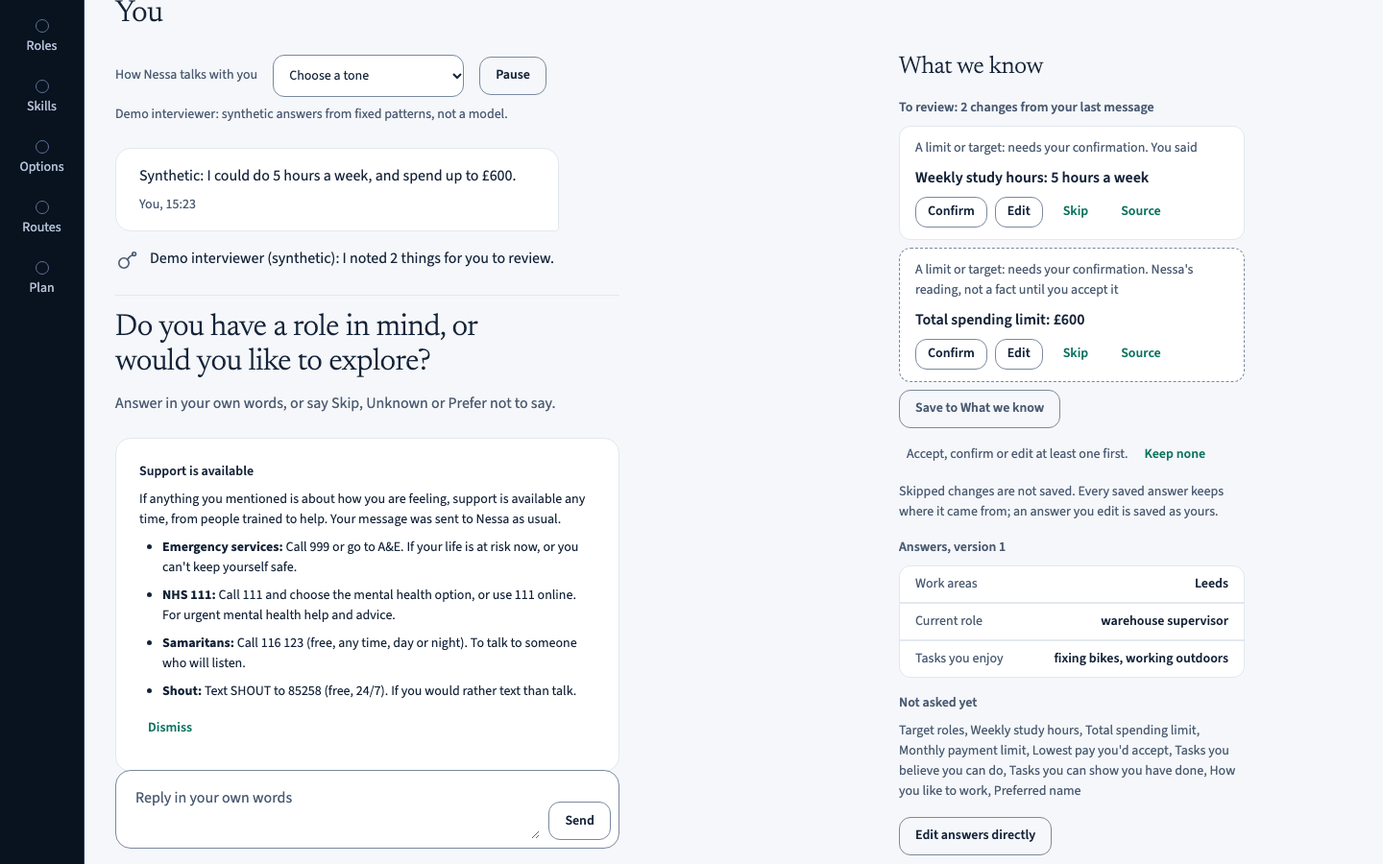
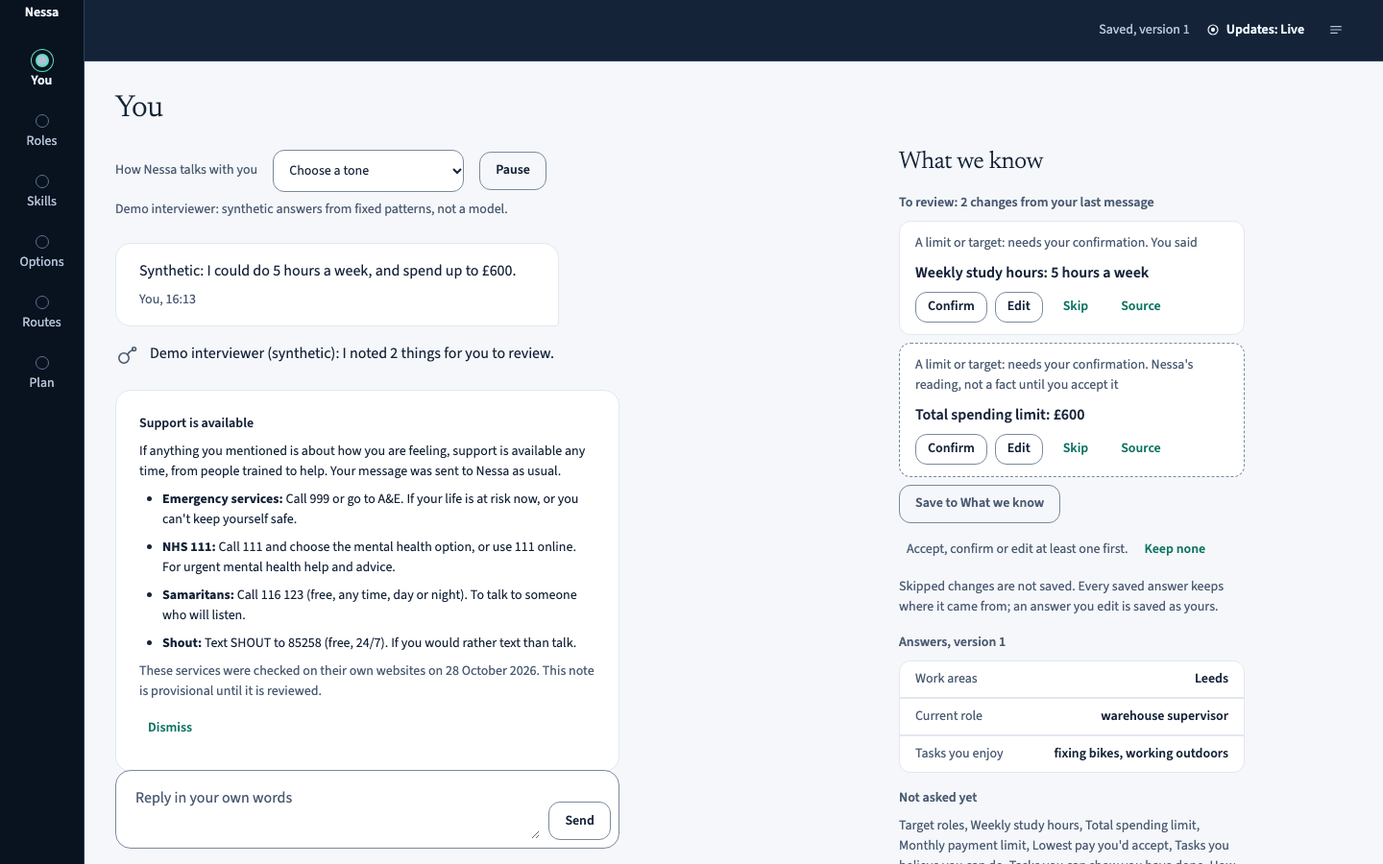
Record the one-screen support policy: ADR 0007, register, runbook, review
ADR 0007 decision 7 now records why the intent classifier was removed
(three rounds traded false positives for false negatives), the exact stem
list, the support flow, that neither the panel nor the instruction is
stored, how an old receipt is refused, and the H-12 known limits: a finite
English stem list, false positives that show the panel, no intent
judgement. The register (PROF-09, PROF-08, UI-06, H-12), the runbook and
the Sprint 2 review follow it. The support captures are retaken; the
blocking-response captures are removed with the response.

diff --git a/docs/requirements-register.md b/docs/requirements-register.md
@@ -421,8 +421,8 @@ Generated properties (plan section 8):
 | PROF-05 | Versioned patches with optimistic concurrency cite supporting message IDs; bounded repair ends in a visible validation failure with the old profile intact | D, P | T5 | verified (Task 5 final candidate ef25e31): proposals cite the person's message IDs; a turn pins the profile version and a decision needs it to be current (`STALE_INPUT_VERSION` otherwise); one repair request, then `invalid_model_output` with nothing to apply and the profile unchanged, `tests/integration/test_interview_turns.py` (durable, real worker), `tests/domain/test_interview_agent.py` |
 | PROF-06 | Secret fields and plan commitments are never patchable by model output; only allowlisted fields apply | D | T5 | verified (Task 5 final candidate ef25e31): the output schema can name only the profile's ten fields (keys and commitments are separate records), anything else fails validation, and the decision applies only proposals of its turn, `tests/domain/test_interview_contract.py::test_only_profile_fields_can_be_named_so_keys_and_commitments_are_unreachable`, `tests/domain/test_profile_document.py::test_an_update_naming_something_that_is_not_a_profile_field_is_refused` |
 | PROF-07 | Direct edits and chat proposals use the same application commands | D, API | T5, T6 | planned (T5 part verified, Task 5 final candidate ef25e31: `commit_profile_version` is the only write path; `PUT /profile` and a turn decision both go through it, `tests/domain/test_profile_document.py::test_a_partial_update_changes_only_its_fields_and_cites_only_its_source`, `tests/integration/test_interview_turns.py`, `test_live_smoke_ledger.py::test_the_interview_smoke_confirms_its_proposals_and_ledgers_the_attempt`. T6 part verified: the review tray's decision, its edits and undo, and choosing a target all go through `commit_profile_version` (`YouChapter.test.tsx`, `test_discovery.py`, `e2e/conversation.spec.ts`)) |
-| PROF-08 | One useful question at a time; supplied information is never asked again; a sure user confirms title and seniority and skips personality | M, UI | T6 | planned (UI, prompt and contract done; live passed once per case) | T6: the chapter shows only the latest question; the entry and the profile reach the model (`interview-turn-3`; `test_interview_choices.py::test_the_entry_mode_and_pause_are_saved_with_versions_and_reach_the_interviewer`); the fixture follows the entry. Fix round 1: the question lives only in `next_question` and the reply holds none, a validation problem otherwise (`test_interview_contract.py::test_the_one_question_lives_only_in_next_question_never_in_the_reply`), so it is shown once; the check counts per field. Live INT-01..03 first failed `one_question` as then counted (outputs not retained); in the fix-round live run (rows 21-23) all three passed, one sample each |
-| PROF-09 | Practical, gentle and challenge modes; pause and resume; no anxiety score; acute distress goes to a separately reviewed safety flow; a health condition prompts for accommodations, not history | M, UI | T6 | verified, policy provisional (H-12) | T6: tone and pause saved with versions (`test_interview_choices.py`); a two-tier screen (controller rulings, fix rounds 2 and 3), specified and tested by one table of input shapes and tiers (`tests/domain/test_safety.py::CORPUS`; SUP-01..13): first-person present acute distress gets the fixed support response before any model call with nothing stored, not even a receipt (`test_explicit_acute_distress_gets_support_before_any_model_call_and_nothing_is_stored`, `e2e/conversation.spec.ts`); a risk stem in a professional, third-party, figurative or object frame never reaches tier 1; every other message with a risk stem, in any inflection, is sent as usual with a support note that is never stored (the receipt holds no note; a replay recomputes it) and is announced politely (`test_interview_choices.py::test_any_other_risk_word_is_sent_as_usual_with_a_support_note`, `YouChapter.test.tsx` "any other risk word…"); while paused nothing can be sent (`YouChapter.test.tsx`); no anxiety or health record (`recorded_health_terms`); live INT-03 asked about adjustments, not history. The policy itself is not yet reviewed (H-12) |
+| PROF-08 | One useful question at a time; supplied information is never asked again; a sure user confirms title and seniority and skips personality | M, UI | T6 | planned (UI, prompt and contract done; live passed once per case) | T6: the chapter shows only the latest question; the entry and the profile reach the model (`interview-turn-4` since fix round 4; `test_interview_choices.py::test_the_entry_mode_and_pause_are_saved_with_versions_and_reach_the_interviewer`); the fixture follows the entry. Fix round 1: the question lives only in `next_question` and the reply holds none, a validation problem otherwise (`test_interview_contract.py::test_the_one_question_lives_only_in_next_question_never_in_the_reply`), so it is shown once; the check counts per field. Live INT-01..03 first failed `one_question` as then counted (outputs not retained); in the fix-round live run (rows 21-23) all three passed, one sample each |
+| PROF-09 | Practical, gentle and challenge modes; pause and resume; no anxiety score; acute distress goes to a separately reviewed safety flow; a health condition prompts for accommodations, not history | M, UI | T6 | verified, policy provisional (H-12) | T6: tone and pause saved with versions (`test_interview_choices.py`). The safety flow (fix round 4, controller ruling: the intent classifier of rounds 1-3 removed) is one recall-first screen, specified and tested by one table (`tests/domain/test_safety.py::CORPUS`, 692 rows; SUP-01..13): every listed risk stem in every listed inflection, person, tense and negation triggers it, a stem inside career phrasing triggers it too (accepted false positives, H-12), and messages with no stem do not. A flagged message is sent as usual (202, no hold) with the support panel beside it, and that turn only gets the smaller-step instruction, which names neither the screen nor the match (`test_interview_contract.py::test_the_smaller_step_instruction_is_added_only_for_a_turn_whose_message_has_a_risk_stem`, `test_interview_agent.py::test_every_request_of_a_turn_with_a_risk_stem_carries_the_smaller_step_instruction`); neither is stored: no receipt, run, journal, export or log holds them, and a replay recomputes the panel (`test_interview_choices.py::test_a_message_with_a_risk_stem_is_sent_with_the_support_panel_and_none_of_it_is_stored`); a receipt from before the redesign is refused, never a 500 (`test_a_turn_receipt_stored_before_the_redesign_is_refused_never_a_500`); the panel is announced politely, leaves focus where it is and is dismissible (`YouChapter.test.tsx` "a message with a risk stem…", `e2e/conversation.spec.ts`); while paused nothing can be sent (`YouChapter.test.tsx`); no anxiety or health record (`recorded_health_terms`); live INT-03 asked about adjustments, not history. The policy itself is not yet reviewed (H-12) |
 
 ### ACQ Web acquisition and its security boundary (spec §6)
 
@@ -585,7 +585,7 @@ Generated properties (plan section 8):
 | UI-03 | Licensed self-hosted fonts with licence texts beside the files; tabular numerals for money and time | DOC | T2 | verified | `docs/design/fonts/README.md` (f2e55fa): OFL files byte-identical to pinned upstream; Source Sans 3 default figures tabular |
 | UI-04 | Tokens, fonts and the status vocabulary implemented in `apps/web` and Storybook (loading, empty, unknown, conditional, stale, error, disabled) | UI | T4 | verified | Task 4 final candidate: `apps/web/src/design/` is a byte-identical mirror of the tokens and both fonts with their licences (`src/lib/designMirror.test.ts`); the Tailwind theme is rebuilt from the semantic tokens only; the status vocabulary covers every `WorkState` (STATE-01); Storybook has the seven named states (`States` stories) plus the vocabulary, controls, strip, drawer and route preview, 26 stories, each rendered and axe-clean (`e2e/storybook.spec.ts`); three new pairings measured (`docs/design/tokens/contrast-report.md`, 68/68) |
 | UI-05 | Motion: 120–180 ms controls, 220–320 ms panels, ≤ 450 ms graph reveal, no continuous force motion; reduced-motion and calm mode remove spatial animation, not information | UI | T4, T14 | planned | T4 part implemented, not verified by a test: controls use `--motion-control` (150 ms) and the phone sheet `--motion-panel` (260 ms); `prefers-reduced-motion` and an in-app calm mode (account menu) set every transition to 0 ms and remove no content; the browser suites run with reduced motion. Open: a test of calm mode, and the graph reveal (T14) |
-| UI-06 | WCAG 2.2 AA: axe clean; keyboard-only completion; visible focus; headings and names; focus return from drawers; 200 % zoom; no horizontal overflow at 390 px; announced errors | A11Y | T4 onward | planned | T4 part verified (Task 4 final candidate) for the Sprint 1 surfaces: axe (WCAG 2.0/2.1/2.2 A and AA) clean on every chapter and state at three viewports and on every story; Tab and Enter reach every chapter, the skip link, the chapter menu, the drawer and the phone sheet, and closing the drawer returns focus (`e2e/keyboard.spec.ts`, `src/components/EvidenceDrawer.test.tsx`); no horizontal overflow at 390 px; errors use `role="alert"`, one announcement per failure; a refused stale save is announced and takes focus, names each answer the newer version changed and its new value, and each conflict line describes its controls (`aria-describedby`) (`src/components/ProfileEditor.test.tsx`, `e2e/access.spec.ts`; fix round 2). T6 part (Sprint 2 surfaces): axe clean on the You chapter's states and stories (start, reply to review, slate, support response, failed reply, key consent, answer states, stale conflict, expanded sheets) at three viewports (`e2e/visual.spec.ts`, `e2e/storybook.spec.ts`); on a phone, "What we know", the reply field, Send, Try again and "Add the details yourself" stay in view and uncovered beside the sheet, open or closed, and focus alone brings Try again into view, where Enter sends it (`e2e/conversation.spec.ts`, S0-V01, S0-V02); each new checked reply (not one already there on load), a save and an undo are announced in one mounted live region, focus moves to the first question after the entry choice and to "What we know" after a save or an undo (`YouChapter.test.tsx`, fix round 1); the support response is an announced alert. Not tested: 200 % zoom; announcements with a screen reader (H-03) |
+| UI-06 | WCAG 2.2 AA: axe clean; keyboard-only completion; visible focus; headings and names; focus return from drawers; 200 % zoom; no horizontal overflow at 390 px; announced errors | A11Y | T4 onward | planned | T4 part verified (Task 4 final candidate) for the Sprint 1 surfaces: axe (WCAG 2.0/2.1/2.2 A and AA) clean on every chapter and state at three viewports and on every story; Tab and Enter reach every chapter, the skip link, the chapter menu, the drawer and the phone sheet, and closing the drawer returns focus (`e2e/keyboard.spec.ts`, `src/components/EvidenceDrawer.test.tsx`); no horizontal overflow at 390 px; errors use `role="alert"`, one announcement per failure; a refused stale save is announced and takes focus, names each answer the newer version changed and its new value, and each conflict line describes its controls (`aria-describedby`) (`src/components/ProfileEditor.test.tsx`, `e2e/access.spec.ts`; fix round 2). T6 part (Sprint 2 surfaces): axe clean on the You chapter's states and stories (start, reply to review, slate, support panel, failed reply, key consent, answer states, stale conflict, expanded sheets) at three viewports (`e2e/visual.spec.ts`, `e2e/storybook.spec.ts`); on a phone, "What we know", the reply field, Send, Try again and "Add the details yourself" stay in view and uncovered beside the sheet, open or closed, and focus alone brings Try again into view, where Enter sends it (`e2e/conversation.spec.ts`, S0-V01, S0-V02); each new checked reply (not one already there on load), a save and an undo are announced in one mounted live region, focus moves to the first question after the entry choice and to "What we know" after a save or an undo (`YouChapter.test.tsx`, fix round 1); the support panel is announced in the polite live region without moving focus (fix round 4). Not tested: 200 % zoom; announcements with a screen reader (H-03) |
 | UI-07 | SVG surfaces have DOM equivalents; every action works through a list; tooltips hold no unique information; filtering never drops keyboard focus | A11Y, UI | T8, T14 | planned | |
 | UI-08 | Measured budgets: input feedback ≤ 100 ms; p95 linked filter/selection ≤ 150 ms at 100 visible jobs and a 1,000-mark projection; device, browser and dataset reported | UI | T8, T14 | planned | |
 | UI-09 | Desktop: slim chapter rail, central work area, evidence drawer. Mobile: chapter menu, cards and lists, bottom evidence sheet, focused graph views (never a shrunken desktop graph) | UI | T4 | planned | T4 part verified (Task 4 final candidate): desktop rail, strip, central work area and evidence drawer (a column at ≥ 1180 px, a side sheet on tablets); phone chapter menu, stacked cards and lists, and the bottom sheet at a 212 px peek with More/Less and drag (`e2e/keyboard.spec.ts` measures both heights; screenshots in `docs/reviews/sprint-1/`). Open: focused graph views, since no graph exists yet (T8 map, T14 route chart) |
@@ -626,7 +626,7 @@ checklist. An agent critique is never a review score.
 | H-09 | Product-owner confirmation of ADR 0003 (Contributor test model for synthetic data) | open | confirmed by the product owner on 2026-10-28 | ADR 0003 |
 | H-10 | Accountable review of each published AI Resilience range record | Sprint 3 onward | not run — requires human | AIR-1 step 3 |
 | H-11 | Rights and product-owner review of Task 5's reference data and provisional decisions: the ESCO licence reading and adapted-version marking, the city list and aliases, ONS regions, the hard-constraint set, the basis of no-value answers, concept-key folding | Sprint 2 | reviewed by the product owner on 2026-10-28: all six confirmed; the hard-constraint set also gains a salary floor, implemented in T6 (`minimum_salary`, ADR 0006 decision 6, ADR 0007 decision 2) | ADR 0006, "Human review checklist" |
-| H-12 | Reviewed sign-off of Task 6's support policy (the two tiers and their phrase lists, the response and note wording, resources, not sending or storing a tier-1 message, the known limits), the inference word lists and kindred groups, the slate's weights, quotas and folding, the interview repair rate, the counterfactual tolerance and the 43 evaluation cases | Sprint 2 | not run — requires human | ADR 0007, "Human review checklist" |
+| H-12 | Reviewed sign-off of Task 6's support policy (the one recall-first screen and its stem list, the panel and smaller-step instruction wording, resources, sending every message and storing neither, the known limits: a finite English stem list, false positives that show the panel, no intent judgement), the inference word lists and kindred groups, the slate's weights, quotas and folding, the interview repair rate, the counterfactual tolerance and the 43 evaluation cases | Sprint 2 | not run — requires human | ADR 0007, "Human review checklist" |
 
 ## 7 Not tested in L0, by decision
 

diff --git a/docs/adr/0007-conversation-discovery-and-support.md b/docs/adr/0007-conversation-discovery-and-support.md
@@ -1,8 +1,9 @@
 # ADR 0007: The You chapter's conversation, grounded discovery and the support policy
 
-- Status: Accepted (Task 6, Sprint 2: S2.3-S2.6). Decision 7 (the support policy, its phrase
-  lists and its resources) and decision 5's slate weights are **provisional, need product
-  owner and reviewed sign-off** (ruling R6; human gate H-12). Decision 2's salary floor is
+- Status: Accepted (Task 6, Sprint 2: S2.3-S2.6). Decision 7 (the support policy, redesigned
+  in fix round 4: its stem list, its wording and its resources) and decision 5's slate
+  weights are **provisional, need product owner and reviewed sign-off** (ruling R6; human
+  gate H-12). Decision 2's salary floor is
   the product owner's change to the hard-constraint set (H-11, 2026-10-28).
 - Date: 2026-10-28
 - Requirements: REC1-01..10, DIV1-02, DIV1-04..12, STATE-05, STATE-06, STATE-08, PROF-04,
@@ -28,9 +29,8 @@ inference, with at least 30 evaluation cases and a capped live run.
    into its input, so the prompt (now `interview-turn-2`) tells the model how to proceed:
    a sure person confirms the target and its level and is not asked to explore; an unsure
    person is asked about tasks before any career is named. Pause is honoured by the web app:
-   nothing is asked, and every way of sending (Send, Try again, Send it again, Send my
-   message anyway) is disabled with the reason "Paused: resume to send." until Resume; the
-   composer stays in place. The API does not refuse a message while paused: pause is the
+   nothing is asked, and every way of sending (Send, Try again, Send it again) is disabled
+   with the reason "Paused: resume to send." until Resume; the composer stays in place. The API does not refuse a message while paused: pause is the
    person's own setting, not a lock. "Help me explore instead" saves the entry as `unsure`.
 
 2. **Profile schema 3** adds two fields; older documents read them as not asked.
@@ -145,50 +145,67 @@ inference, with at least 30 evaluation cases and a capped live run.
    Model-written explanations are not used in L0: grounding by construction was preferred
    to a second paid call whose prose would need its own checks.
 
-7. **The minimal support policy** (`nessa.profile.safety`, `support-policy-3`): a two-tier
-   screen (controller rulings, Task 6 fix rounds 2 and 3), before any model call. It is
-   kept apart from career suitability: it scores and remembers nothing. The four UK
+7. **The minimal support policy** (`nessa.profile.safety`, `support-policy-4`): one
+   deterministic, recall-first screen (controller ruling, Task 6 fix round 4). It is kept
+   apart from career suitability: it scores, labels and remembers nothing. The four UK
    services were checked on their own pages on 2026-10-28 (999 or A&E; NHS 111, mental
-   health option; Samaritans 116 123; Shout 85258). One table of input shapes and their
-   tiers is the specification and the test (`tests/domain/test_safety.py::CORPUS`).
-   - *Tier 1, acute (narrow).* First-person, present intent or distress only, each branch
-     starting from "I" or "me": "I (just, really, keep, ...) want to / am going to / am
-     thinking about" + an act (die at the end of a clause, kill myself, end it all or my
-     life, take my own life, hurt or harm myself); "I feel / I'm / I've been / I've felt
-     suicidal"; "I self-harm", "I've been / I keep self-harming"; "I keep / I've been /
-     I'm hurting or cutting myself" at the end of a clause; "I wish I was dead"; "I'd be
-     better off dead", "better off without me / if I took my own life"; "I don't / do not
-     want to be alive", "... to live (like this) (any more)" or "... to be here any more"
-     at the end of a clause; "I have no reason to live / go on"; "I can't / cannot go on"
-     at the end of a clause. A risk word in a professional, third-party, figurative or
-     object frame never reaches it ("people feeling suicidal", "print is going to die",
-     "die of boredom", "thinking about suicide prevention work", "I have self-harm
-     awareness training", "I kept cutting myself on the tape"). `POST .../interview/turns`
-     answers 200 with a fixed support response: nothing is sent to the interviewer or
-     stored, not even an idempotency receipt (it would keep a fingerprint of the message).
-     The person can send the message anyway (`send_after_support`); the web app sends the
-     message that was screened. Tier 1 rests on positive evidence only, never on a list of
-     words that excuse a match.
-   - *Tier 2, mention (broad).* Every other message containing a risk stem, in any
-     inflection: suicid-, self-harm-, overdos-, kill / hurt / harm / cut (-s, -ing, -ed,
-     -ting) myself, end / take (-s, -ing, -en, took) my (own) life, "to die" after an
-     intent word, "wish I was dead", "better off dead / without me", "don't / do not /
-     doesn't / didn't want to live / be alive / be here", "no reason to live / go on",
-     "can't / cannot / can not / couldn't go on". The message is sent as usual (202), and
-     the response carries a calm `support_note` with the same services, shown beside the
-     conversation until dismissed and announced through the chapter's polite live region
-     (focus is not moved; dismissing returns it to the reply field). The note is derived
-     from the request on every response, a replay included, and is never stored: the
-     idempotency receipt records the turn without it (tested). Nothing containing a risk
-     stem reaches no tier, and ordinary career talk is never blocked.
-   - *Known limits (H-12):* English phrasing only, and only the stems above; indirect or
-     third-person wording without a stem ("my friend wants to end things", "what's the
-     point") gets nothing; first-person statements in the past or with an object ("I hurt
-     myself", "I cut myself", "I was cutting myself", "I kept hurting myself lifting") are
-     tier 2, not 1, because the same words describe workplace injuries; "There's no reason
-     to go on" (no "I") and "can't go on like this" are tier 2; "I don't want to be here"
-     without "any more" is tier 2 (a common job phrase); a career phrase with a risk stem
-     gets the note, which some people may find unwelcome.
+   health option; Samaritans 116 123; Shout 85258). One table is the specification and the
+   test (`tests/domain/test_safety.py::CORPUS`): every listed stem in every listed form,
+   then sentences, then messages with no stem.
+   - *Why one screen.* Fix rounds 1 to 3 tried to tell intent apart with hand-written
+     patterns: a blocking tier for first-person present intent, a note for every other
+     mention. Each round traded false positives for false negatives: re-review 3 found
+     first-person shapes that reached neither tier (C-1), the blocking tier firing on career
+     text with no risk stem at all ("lifeguard", "without meetings") or on object frames
+     ("life sciences", "life savings") (N-I1), and uncontracted negations reaching neither
+     (N-I2). Precise intent classification by pattern is not achievable here, so the
+     classifier was removed: the screen decides only whether a listed stem is present.
+   - *The stems*, each matched in any surrounding text, any case, with a straight, curly or
+     missing apostrophe, and as a whole word ("lifeguard" and "meetings" do not match):
+     suicid-; self-harm (self harm, selfharm) and its forms; overdos-; kill / hurt / harm /
+     cut (-s, -ed, -ing, -ting) + a reflexive in any person (myself, yourself, himself,
+     herself, ourselves, yourselves, themselves, themself, oneself, "my self"; not
+     "self-esteem"); end (-s, -ed, -ing) it all; end or take (-s, -ed, -ing, -en, took) +
+     my / your / his / her / our / their / one's + (own) life or lives; an intent (want,
+     going, ready, plan, tempted, try, intend, decide, urge, in any form, + "to"; wanna;
+     gonna) + an optional adverb (just, really, simply, actually, honestly, even, truly,
+     still) + die; think / thought / thoughts about or of + (adverb) + dying; wish (-es,
+     -ed, -ing) (that) I / you / he / she / we / they was or were dead, or could or would
+     (adverb) die; better off dead or without me / you / him / her / us / them; a negation
+     (don't, doesn't, didn't, won't, wouldn't, couldn't, shouldn't, with or without the
+     apostrophe; do / does / did / would / will not; never; no longer) + (adverb) + want
+     (-s, -ed, -ing) to live, be alive or be here; no reason to live or go on; can't /
+     cannot / can not / couldn't / could not go on.
+   - *The support flow.* `POST .../interview/turns` sends every message as usual (202: no
+     hold, no extra step). When the message holds a stem, the response carries
+     `support_note`, a calm, non-diagnostic panel with the four services and the date they
+     were checked, which the web app shows beside the conversation until dismissed and
+     announces through the chapter's polite live region; focus is not moved (dismissing
+     returns it to the reply field), and the question steps aside while it is shown. For
+     that turn only, the interviewer's instructions gain a fixed sentence
+     (`SUPPORT_TURN_INSTRUCTION`, prompt `interview-turn-4`): acknowledge briefly and
+     kindly, offer one smaller next step such as pausing, ask no career question
+     (`next_question` null), and give no phone numbers or service names (the panel holds
+     the checked ones; spec section 4: never fabricate emergency details). The model never
+     sees a label naming the screen or what matched: the context it reads is the same
+     either way. The demo interviewer follows the same instruction.
+   - *Never stored.* Both the panel and the instruction are recomputed from the message
+     wherever they are needed (the API response, a replay included, and every model
+     request, a repair included), so the flag reaches no profile, proposal, discovery,
+     slate, export, receipt, run, journal or log (tested by scanning both databases, the
+     worker log, the API log and the export). A receipt stored before this change is
+     refused as a different request (its request carried `send_after_support`), never a
+     500; it may still hold the old note, in pre-release local data only.
+   - *Known limits (H-12):* a finite English stem list, so wording outside it gets nothing
+     ("my friend wants to end things", "what's the point", "I just want to end it", "can't
+     carry on", method words): extending the list is the reviewer's decision; false
+     positives show the panel, since the screen makes no intent judgement, so a stem inside
+     career, workplace or figurative phrasing triggers it ("took my life savings", "ending my
+     life sciences career", "better off without me" about a team, "hurt myself lifting",
+     "cut yourself some slack", "don't want to live in London", "don't want to be here in
+     five years", "going to die of boredom", "can't go on holiday"), and some people may
+     find that unwelcome; the instruction asks the model for no career question, but the
+     model's reply is not checked for one.
    - *Inappropriate inference.* Model output may not name a health condition, a diagnosis,
      a personality type (or MBTI code), a protected characteristic or a percentage that the
      person's own messages never used; a condition the person names may be acknowledged,
@@ -246,24 +263,25 @@ inference, with at least 30 evaluation cases and a capped live run.
 
 - Migration 0010; new run kind `discovery`; new event kind `interview.preferences_updated`;
   new source kind `occupation_choice`; new endpoints for preferences, discoveries, slates,
-  targets, the sketch and the profile revert; `submit_turn` may answer 200 with the
-  support response; a turn decision may carry edits.
+  targets, the sketch and the profile revert; `submit_turn` answers 202 with the support
+  panel when the message holds a risk stem (fix round 4: no 200 response and no
+  `send_after_support` any more); a turn decision may carry edits.
 - Not done: model-written suggestion explanations; applying the salary floor (Sprint 3,
   with pay evidence); a salary floor per target; a human review of the evaluation cases
   and of the support policy (H-12).
 
 ## Human review checklist (H-12, not run — requires human)
 
-- [ ] **Support policy** (decision 7): the shape table (`test_safety.py::CORPUS`) and where
-  the line between the tiers falls (tier 1: first-person present intent or distress; tier
-  2: the risk stems in every inflection), the fixed response and the note's wording and
-  announcement, the decision not to send or store a tier-1 message and never to store the
-  note, the "send anyway" path, the known limits listed in decision 7 (only the listed
-  stems; indirect and third-person wording without a stem; past or object-framed self-
-  injury, which overlaps workplace injury, only tier 2; "There's no reason to go on",
-  "can't go on like this" and "I don't want to be here" only tier 2; the note on career
-  phrases), and the four resources and their wording (checked against the services' pages
-  on 2026-10-28).
+- [ ] **Support policy** (decision 7): the one recall-first screen in place of an intent
+  judgement; the stem list and its forms (`test_safety.py::CORPUS`), and whether to add
+  wording it misses ("end it", "carry on", "not exist", method words); the panel's wording,
+  its placement beside the conversation, its polite announcement and the question stepping
+  aside; the smaller-step instruction's wording, and that the model's reply is not checked
+  for a career question; the decision to send every message and never store the panel or
+  the instruction; the known limits in decision 7: a finite English stem list, false
+  positives that show the panel (career, workplace and figurative phrases with a stem), no
+  intent judgement; and the four resources and their wording (checked against the
+  services' pages on 2026-10-28).
 - [ ] **Inference rules** (decision 7): the health, type and protected-characteristic word
   lists, the kindred-word groups (discovery searches only), and refusing a condition in a
   career field.

diff --git a/docs/reviews/sprint-2.md b/docs/reviews/sprint-2.md
@@ -32,9 +32,9 @@ fresh demo stack (`apps/web/e2e/conversation.spec.ts`), and against the live tes
 
 P02 (unsure, unemployed) explores without an income baseline (none exists in the profile,
 and no budget or salary value was proposed live: INT-01) and without any personality test
-(work style is optional and skippable). The minimal support policy answers first-person
-acute distress before any model call, and sends any other mention of a risk word as usual
-with a calm support note beside it (two tiers, since fix round 2).
+(work style is optional and skippable). The minimal support policy is one recall-first
+screen (since fix round 4): a message holding any listed risk stem is sent as usual, with a
+calm support panel beside it and a smaller step, no career question, in that turn's reply.
 
 Not shown: a person with a real key on the production model (the release task owns the one
 production qualification call); listings, pay or skills comparison (Sprints 3-4).
@@ -64,20 +64,21 @@ backend tests, 176 Vitest, 178 integration and stack, 21 Playwright); its first 
 run caught the sticky composer covering Try again (axe `target-size` at 390×844), fixed and
 rerun clean.
 
-After fix round 3 (final code, `561c97f`):
+After fix round 4 (final code, `16ee339`):
 
 - `make check`: exit 0. Backend: ruff format (175 files) and ruff check clean, mypy clean
-  (175 files), 433 fast tests passed, fixture validator passed. Web: client drift, Biome
-  (108 files), `tsc`, Vitest 192 tests in 24 files passed.
+  (175 files), 1,072 fast tests passed (the support table alone is 692 rows), fixture
+  validator passed. Web: client drift, Biome (108 files), `tsc`, Vitest 191 tests in 24
+  files passed.
 - `make acceptance`: exit 0. 185 integration and stack tests passed on PostgreSQL 16.15 and
   DBOS (including the full ESCO import and offline evaluation), the Storybook build, and 22
   Playwright tests passed (journeys, keyboard, session, recovery in place, Storybook axe,
   the visual package at three viewports).
-- `pnpm run review-screenshots`: 3 passed; 84 captures (including `you--support-note`) with
-  axe, overflow, overprint, console and font checks clean at every viewport
-  (`checks-*.json`).
+- `pnpm run review-screenshots`: 3 passed; 81 captures (the blocking `you--support`
+  capture is gone with the response it showed; `you--support-note` recaptured) with axe,
+  overflow, overprint, console and font checks clean at every viewport (`checks-*.json`).
 - Live: `make live-eval` twice in all (rows 15-20, then the fix-round 1 run, rows 21-24);
-  none in fix rounds 2 and 3. Not run: VoiceOver, Safari, 200 % zoom, the production model.
+  none in fix rounds 2 to 4. Not run: VoiceOver, Safari, 200 % zoom, the production model.
 
 ## The six questions
 
@@ -260,6 +261,17 @@ receipt holds no note (a replay recomputes it, tested); the note is announced po
 and dismissing it returns focus to the reply field. Remaining limits are in the H-12
 checklist.
 
+**Re-review 3 and fix round 4.** The third re-review found the receipt and the
+announcement fixed, but the narrowed tier 1 had dropped first-person shapes to no tier at
+all (Critical), fired on career text with no risk stem ("lifeguard", "without meetings"),
+and uncontracted negations reached neither tier. Two failed fixes in one direction showed
+that intent cannot be classified precisely by pattern, so by the controller's ruling the
+classifier is gone: one recall-first screen sends every message as usual and shows the
+support panel for any listed stem in any form, with a smaller-step instruction for that
+turn only; nothing of it is stored. Stems inside career phrasing now show the panel, an
+accepted false positive listed for H-12. The blocking response and "Send my message
+anyway" are removed.
+
 ## Accepted limitations and open items
 
 | Item | Owner | State |
@@ -285,9 +297,9 @@ checklist.
    limits and "Accept" for facts understood; is Undo discoverable?
 4. **Slate:** are the cards' three sections helpful or too long on a phone; is "no score or
    percentage" understood; do the controls read as a view, not a filter on the profile?
-5. **Support response and note:** is the blocking response calm, clear and actionable; is
-   "Send my message anyway" appropriate; is the non-blocking note beside a sent message
-   calm rather than alarming, and easy to dismiss (also H-12)?
+5. **Support panel:** is the panel beside a sent message calm rather than alarming, clear
+   and actionable, and easy to dismiss; does the question stepping aside while it shows
+   read well; is it acceptable on a career phrase that only shares a stem (also H-12)?
 6. **Key consent:** is what is stored, where and its limits clear before consent?
 7. **Phone:** What we know, the reply field and Try again beside the sheet (S0-V01/V02).
 

diff --git a/docs/runbook.md b/docs/runbook.md
@@ -48,9 +48,10 @@ in, is refused). These are local test credentials, not secrets.
    explore** suggests up to six ESCO occupations from your answers (no score or
    percentage), with view-only controls; "Make this a target" is the only way one becomes
    a target. The early sketch lists what a target usually asks for, every step unresolved.
-   A message that says you want to die or harm yourself gets UK support services instead
-   of the interviewer, and nothing is stored; any other mention of such words is sent as
-   usual, with a calm support note beside it.
+   A message that uses words about dying, suicide or self-harm is sent as usual, with a
+   calm note of UK support services beside it, and Nessa's reply that turn offers a
+   smaller step and asks no career question. The note is shown for such words whatever
+   they are about, and is never stored.
 4. **Routes** in the fixture workspace shows the TRACE-01 fixture preview, labelled as such.
    Select a route to inspect it. The route search itself is not built yet, so the other
    chapters show what they will hold and which answers they need.
@@ -94,13 +95,14 @@ with the browser's Origin unchanged.
   sources (undo).
 - Interview preferences (ADR 0007): `GET`/`PUT .../interview/preferences` with
   `{expected_version, entry_mode: sure|unsure|null, conversation_mode:
-  practical|gentle|challenge|null, paused}`. A turn whose message states acute distress in
-  the first person answers `200` with the support response (`policy: "acute_distress"`, UK
-  resources) instead of `202`: nothing was sent or stored, not even an idempotency receipt;
-  resend with `send_after_support: true` to send it anyway. Any other risk word: `202` as
-  usual, with a `support_note` (`policy: "risk_mention"`, the same resources) to show beside
-  it; otherwise `support_note` is null. The note is derived from the request every time (a
-  replay with the same idempotency key gets it too) and is never stored.
+  practical|gentle|challenge|null, paused}`. `POST .../interview/turns` always answers
+  `202` with the turn. When the message holds a listed risk stem (ADR 0007 decision 7),
+  `support_note` carries the support panel (`policy_version`, wording, the UK resources and
+  when they were checked) to show beside it, and that turn's interviewer gets the
+  smaller-step instruction; otherwise `support_note` is null. Both are derived from the
+  message every time (a replay with the same idempotency key gets the panel too) and are
+  never stored. A request still carrying the removed `send_after_support` is refused as
+  invalid (`422 VALIDATION_FAILED`).
 - Discovery (ADR 0007): `POST .../discoveries` with `{expected_profile_version}` returns `202`
   (`INSUFFICIENT_EVIDENCE` if no answer describes work yet); `GET .../discoveries` (newest
   first), `GET .../discoveries/{id}`; `GET .../discoveries/{id}/slate?emphasis=&exclude_concept=
